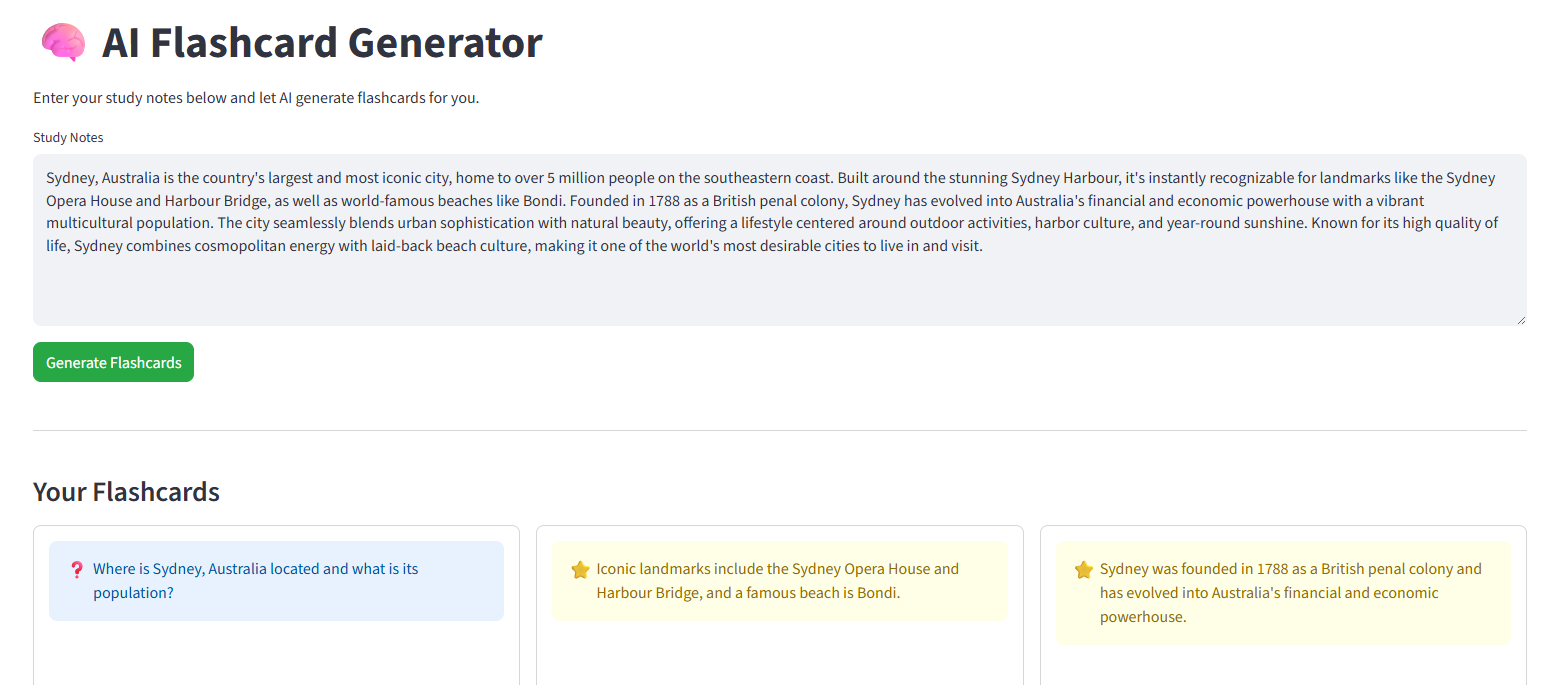
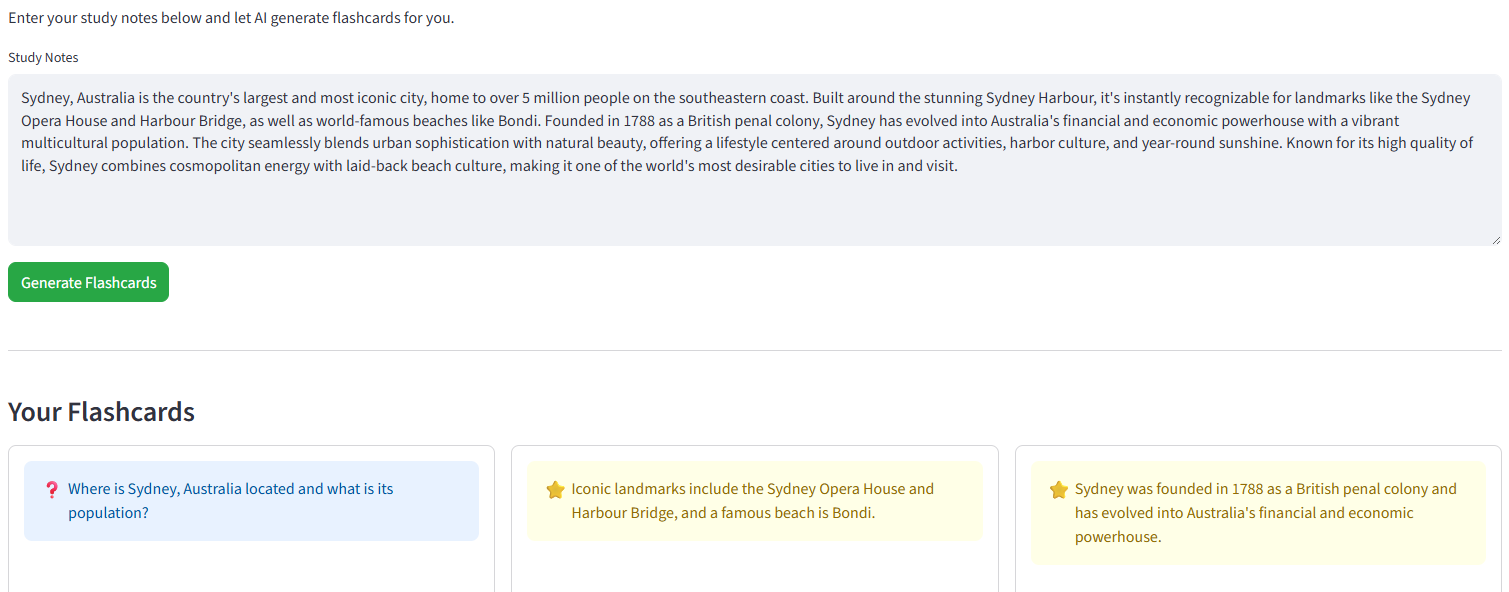
feat: Implement initial Streamlit portfolio application with home, skills, and an interactive ASX Stock Monitor project.

diff --git a/streamlit/main.py b/streamlit/main.py
@@ -338,38 +338,18 @@ elif page == "Projects":
         
         for idx, project in enumerate(filtered_projects):
             with cols[idx % 2]:
-                with st.container():
+                with st.container(border=True, height=500):
                     # Handle local images vs remote URLs
                     image_path = project["image"]
                     if not image_path.startswith("http") and not os.path.isabs(image_path):
                         image_path = os.path.join(os.path.dirname(__file__), image_path)
                     
-                    # Robust Image Resizing for Consistency
+                    # Display full image (no cropping)
                     try:
-                        from PIL import Image, ImageOps
-                        if os.path.exists(image_path):
-                            img = Image.open(image_path)
-                            # Force 16:9 Aspect Ratio (e.g., 800x450)
-                            target_ratio = 16/9
-                            
-                            # Calculate target dimensions
-                            if img.width / img.height > target_ratio:
-                                # Too wide: crop width
-                                new_width = int(img.height * target_ratio)
-                                offset = (img.width - new_width) // 2
-                                img = img.crop((offset, 0, offset + new_width, img.height))
-                            else:
-                                # Too tall: crop height
-                                new_height = int(img.width / target_ratio)
-                                offset = (img.height - new_height) // 2
-                                img = img.crop((0, offset, img.width, offset + new_height))
-                                
-                            st.image(img, use_container_width=True)
-                        else:
-                            st.image(image_path, use_container_width=True)
-                    except Exception as e:
-                        # Fallback if PIL fails
                         st.image(image_path, use_container_width=True)
+                    except:
+                        st.error(f"Could not load image: {project['image']}")
+
                     st.subheader(project["title"])
                     st.caption(f"{project['category']} | {' • '.join(project['tags'])}")
                     st.write(project["description"])
@@ -378,7 +358,7 @@ elif page == "Projects":
                             st.button("Try it Live", key=f"btn_demo_{idx}", type="primary", on_click=set_active_project, args=(project["title"],))
                     else:
                             st.link_button("Live Demo", project["demo"])
-                    st.divider()
+                    # Removed divider as the border now separates cards
 
 # Footer
 st.markdown("---")
